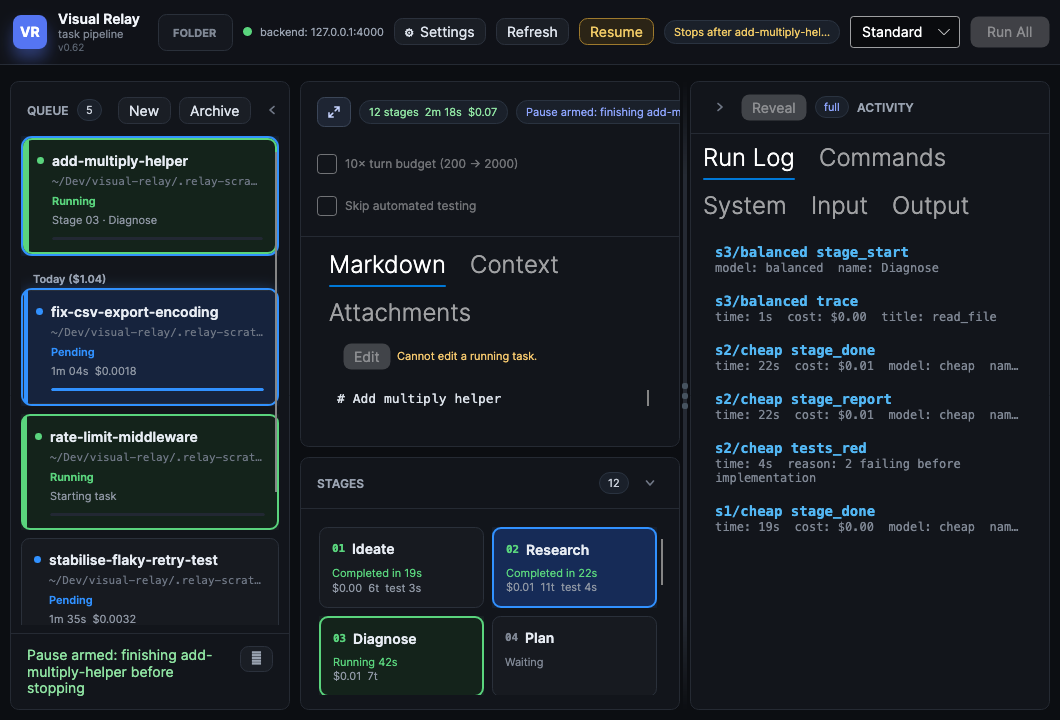
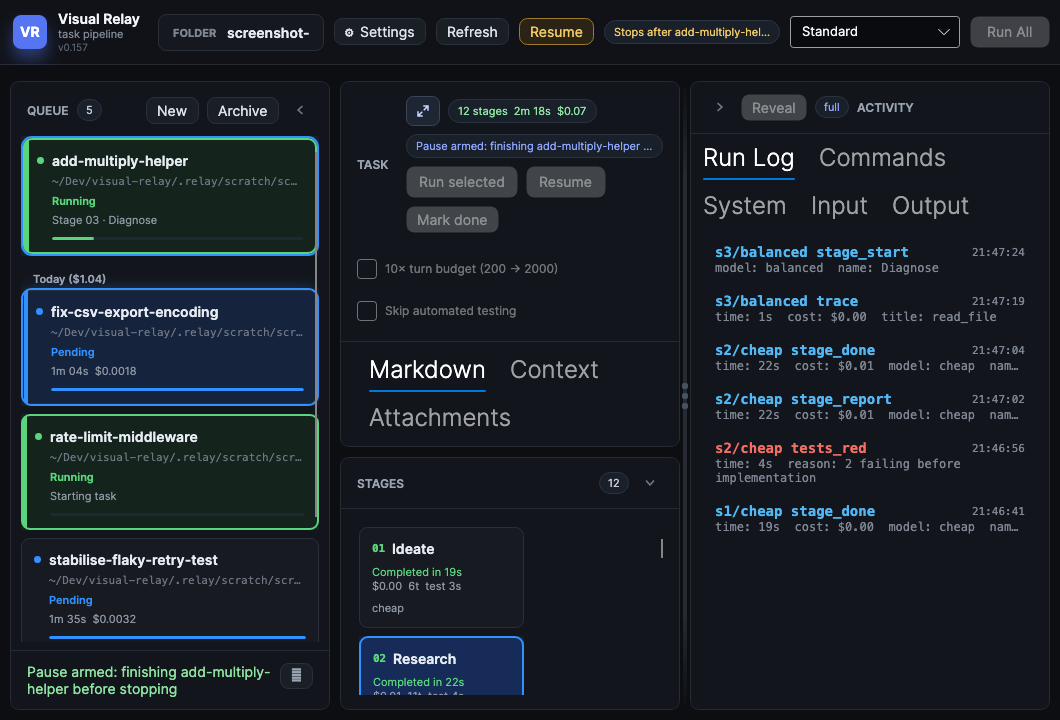
fix(control): drop start-backend from the advertised command list
- It was listed but unroutable, so the map promised a command that would 404

diff --git a/src/VisualRelay.App/Services/ControlApi.State.cs b/src/VisualRelay.App/Services/ControlApi.State.cs
@@ -113,7 +113,7 @@ public sealed partial class ControlApi
     private static readonly string[] IcommandNames =
     [
         "bootstrap", "run-all", "run-selected", "resume", "refresh", "pause-toggle",
-        "archive-toggle", "new-task", "follow-running", "start-backend", "edit",
+        "archive-toggle", "new-task", "follow-running", "edit",
         "rewrite-selected", "cancel-rewrite", "revert-rewrite", "mark-done", "reset-selected"
     ];
 
